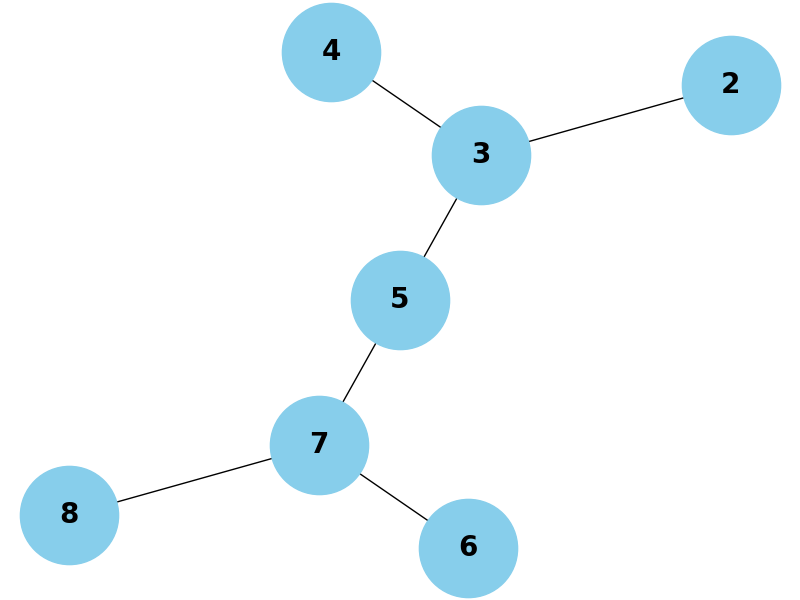
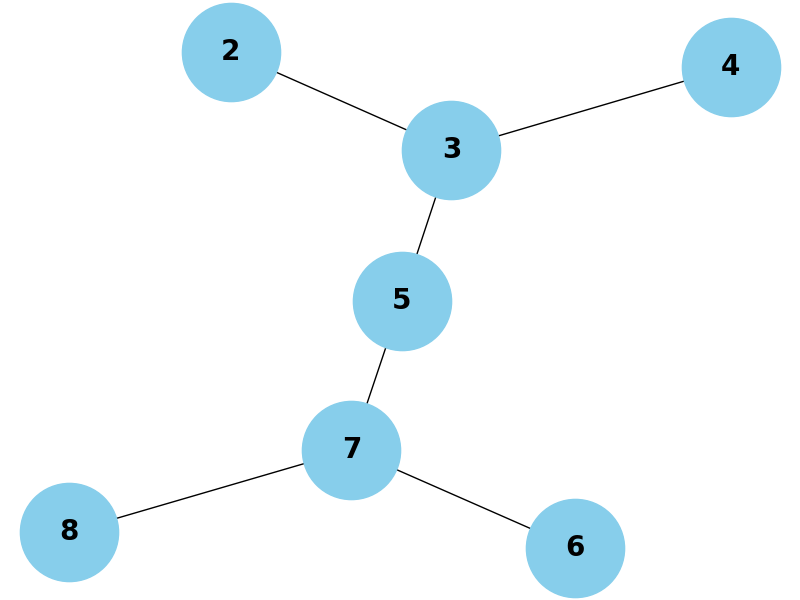
mod .

diff --git a/Tree/BinaryTree/bianryTree1.py b/Tree/BinaryTree/bianryTree1.py
@@ -166,3 +166,11 @@ if not os.path.exists(full_dir):
 file_path = os.path.join(full_dir,'binary_tree1.png')
 
 tree.visualize_saveImage(file_path=file_path)
+
+tree.deleteNode(4)
+
+tree.to_networkx()
+
+delete_path = os.path.join(full_dir,'binary_tree_delete1.png')
+
+tree.visualize_saveImage(file_path=delete_path)
